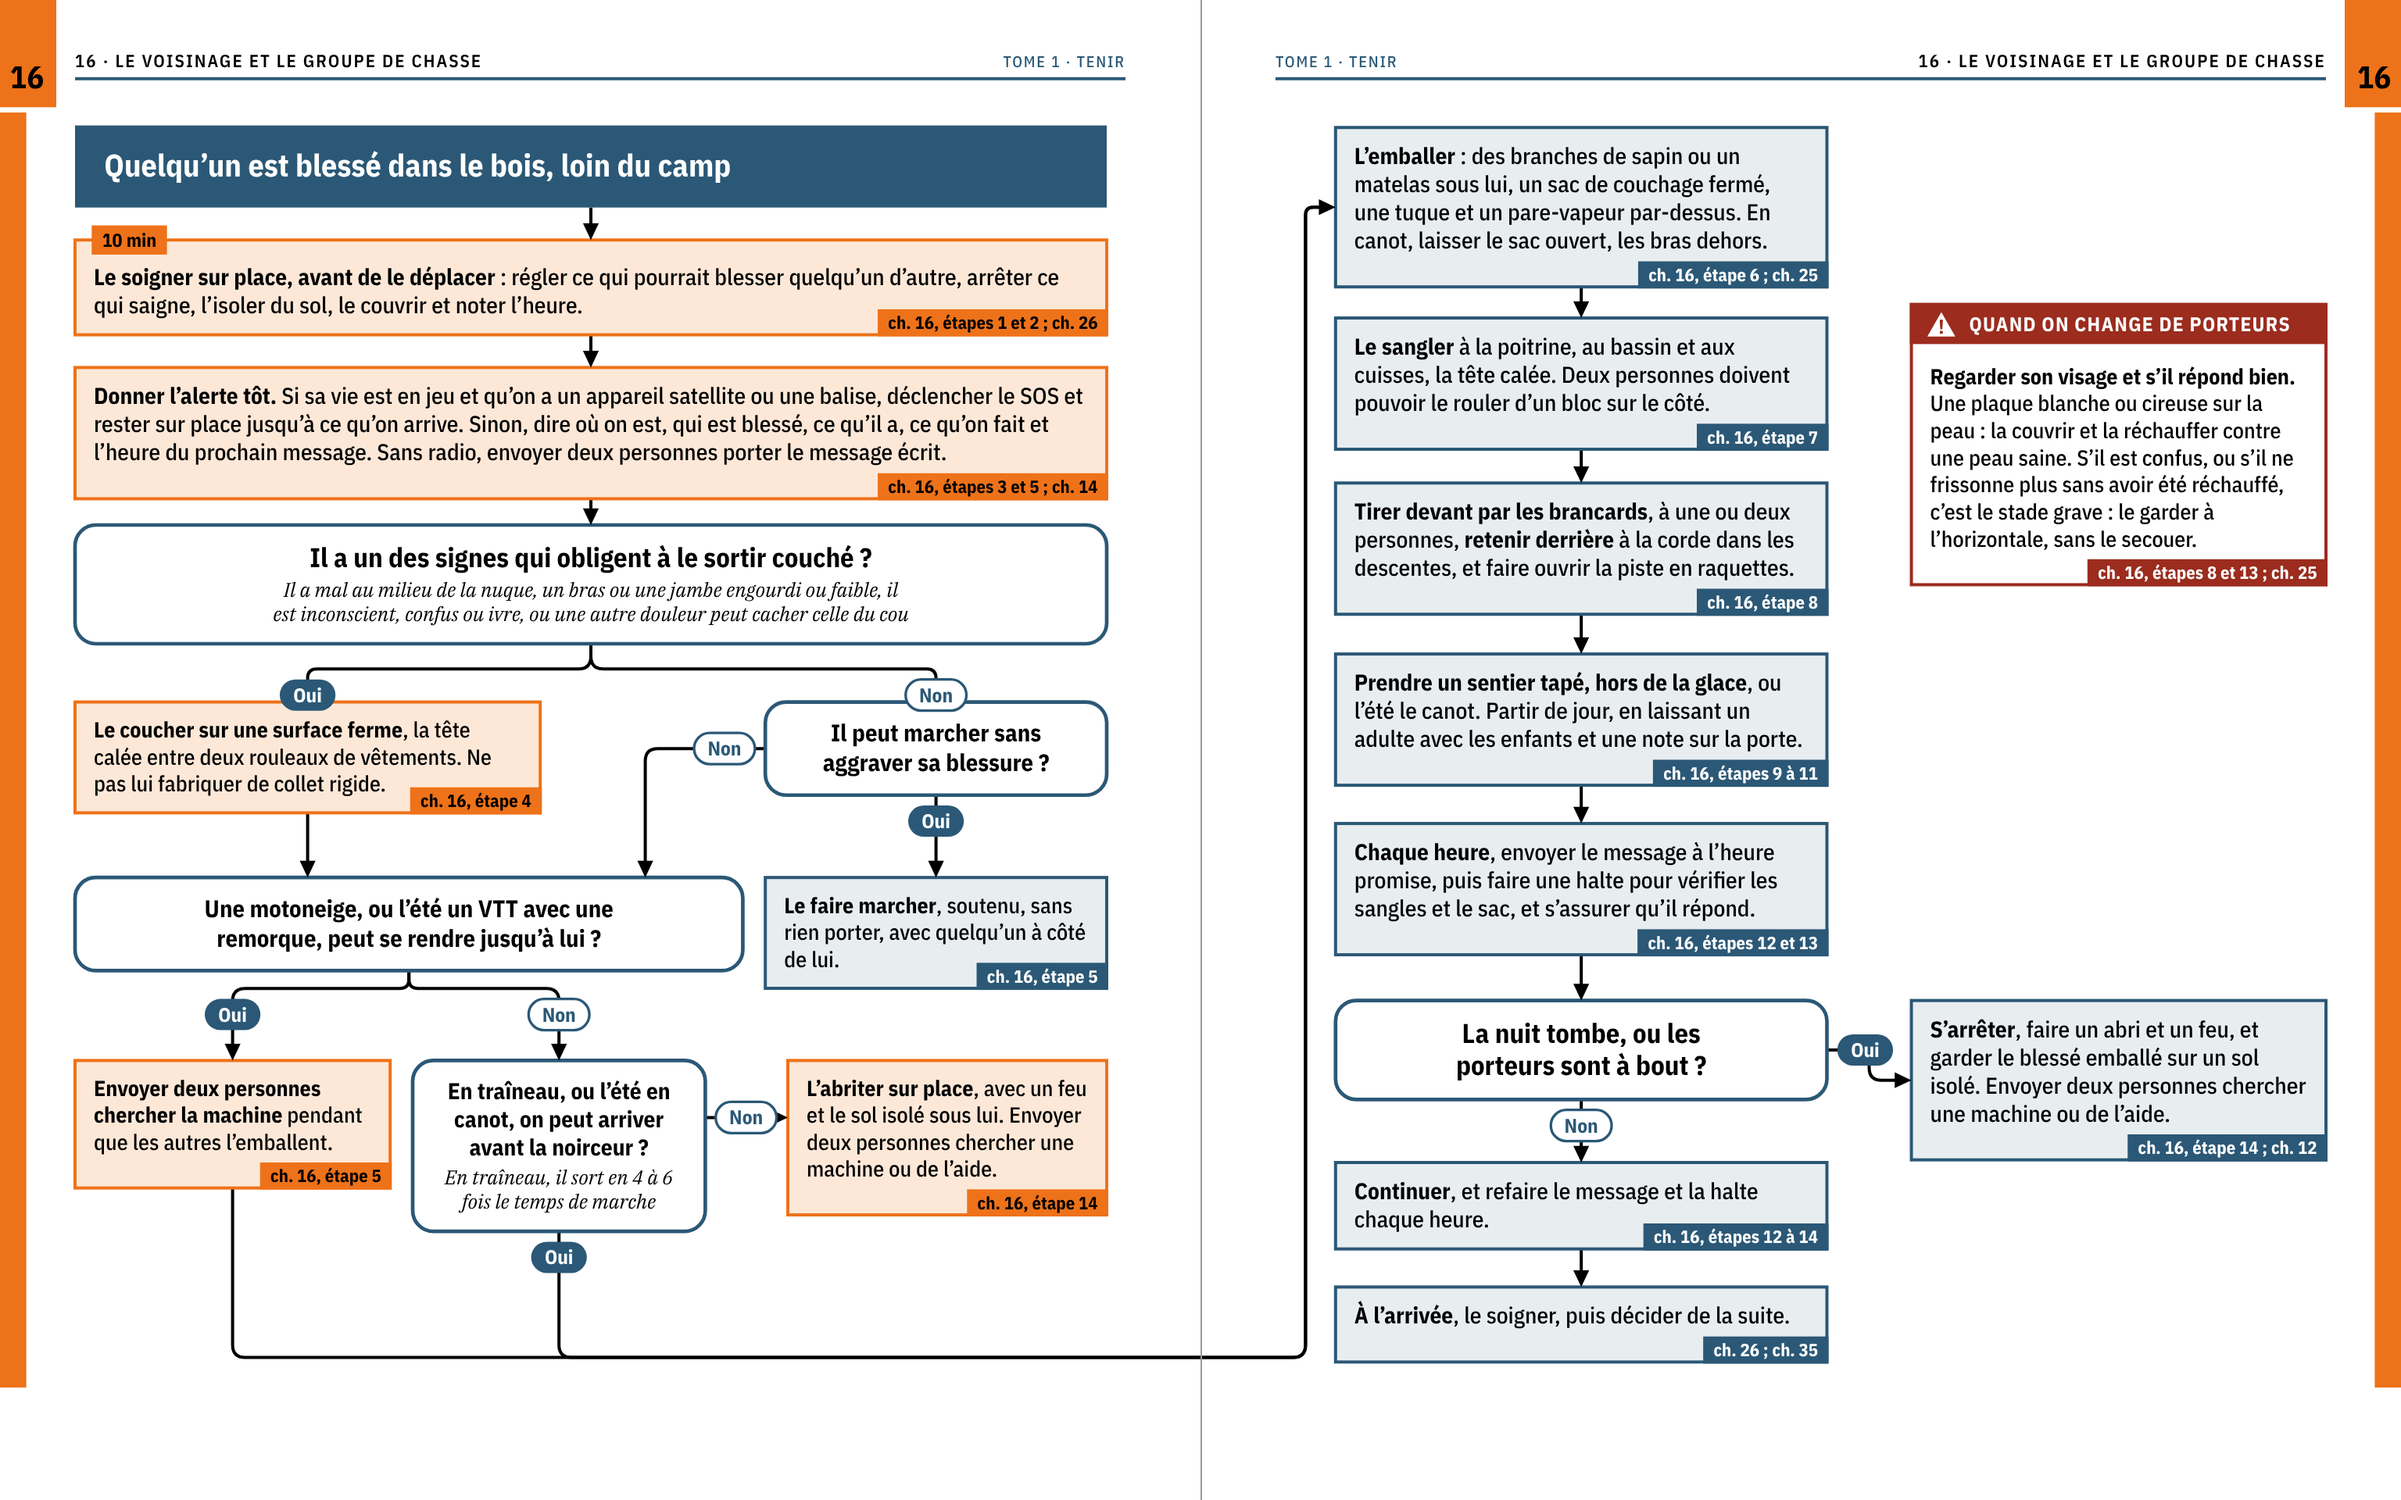
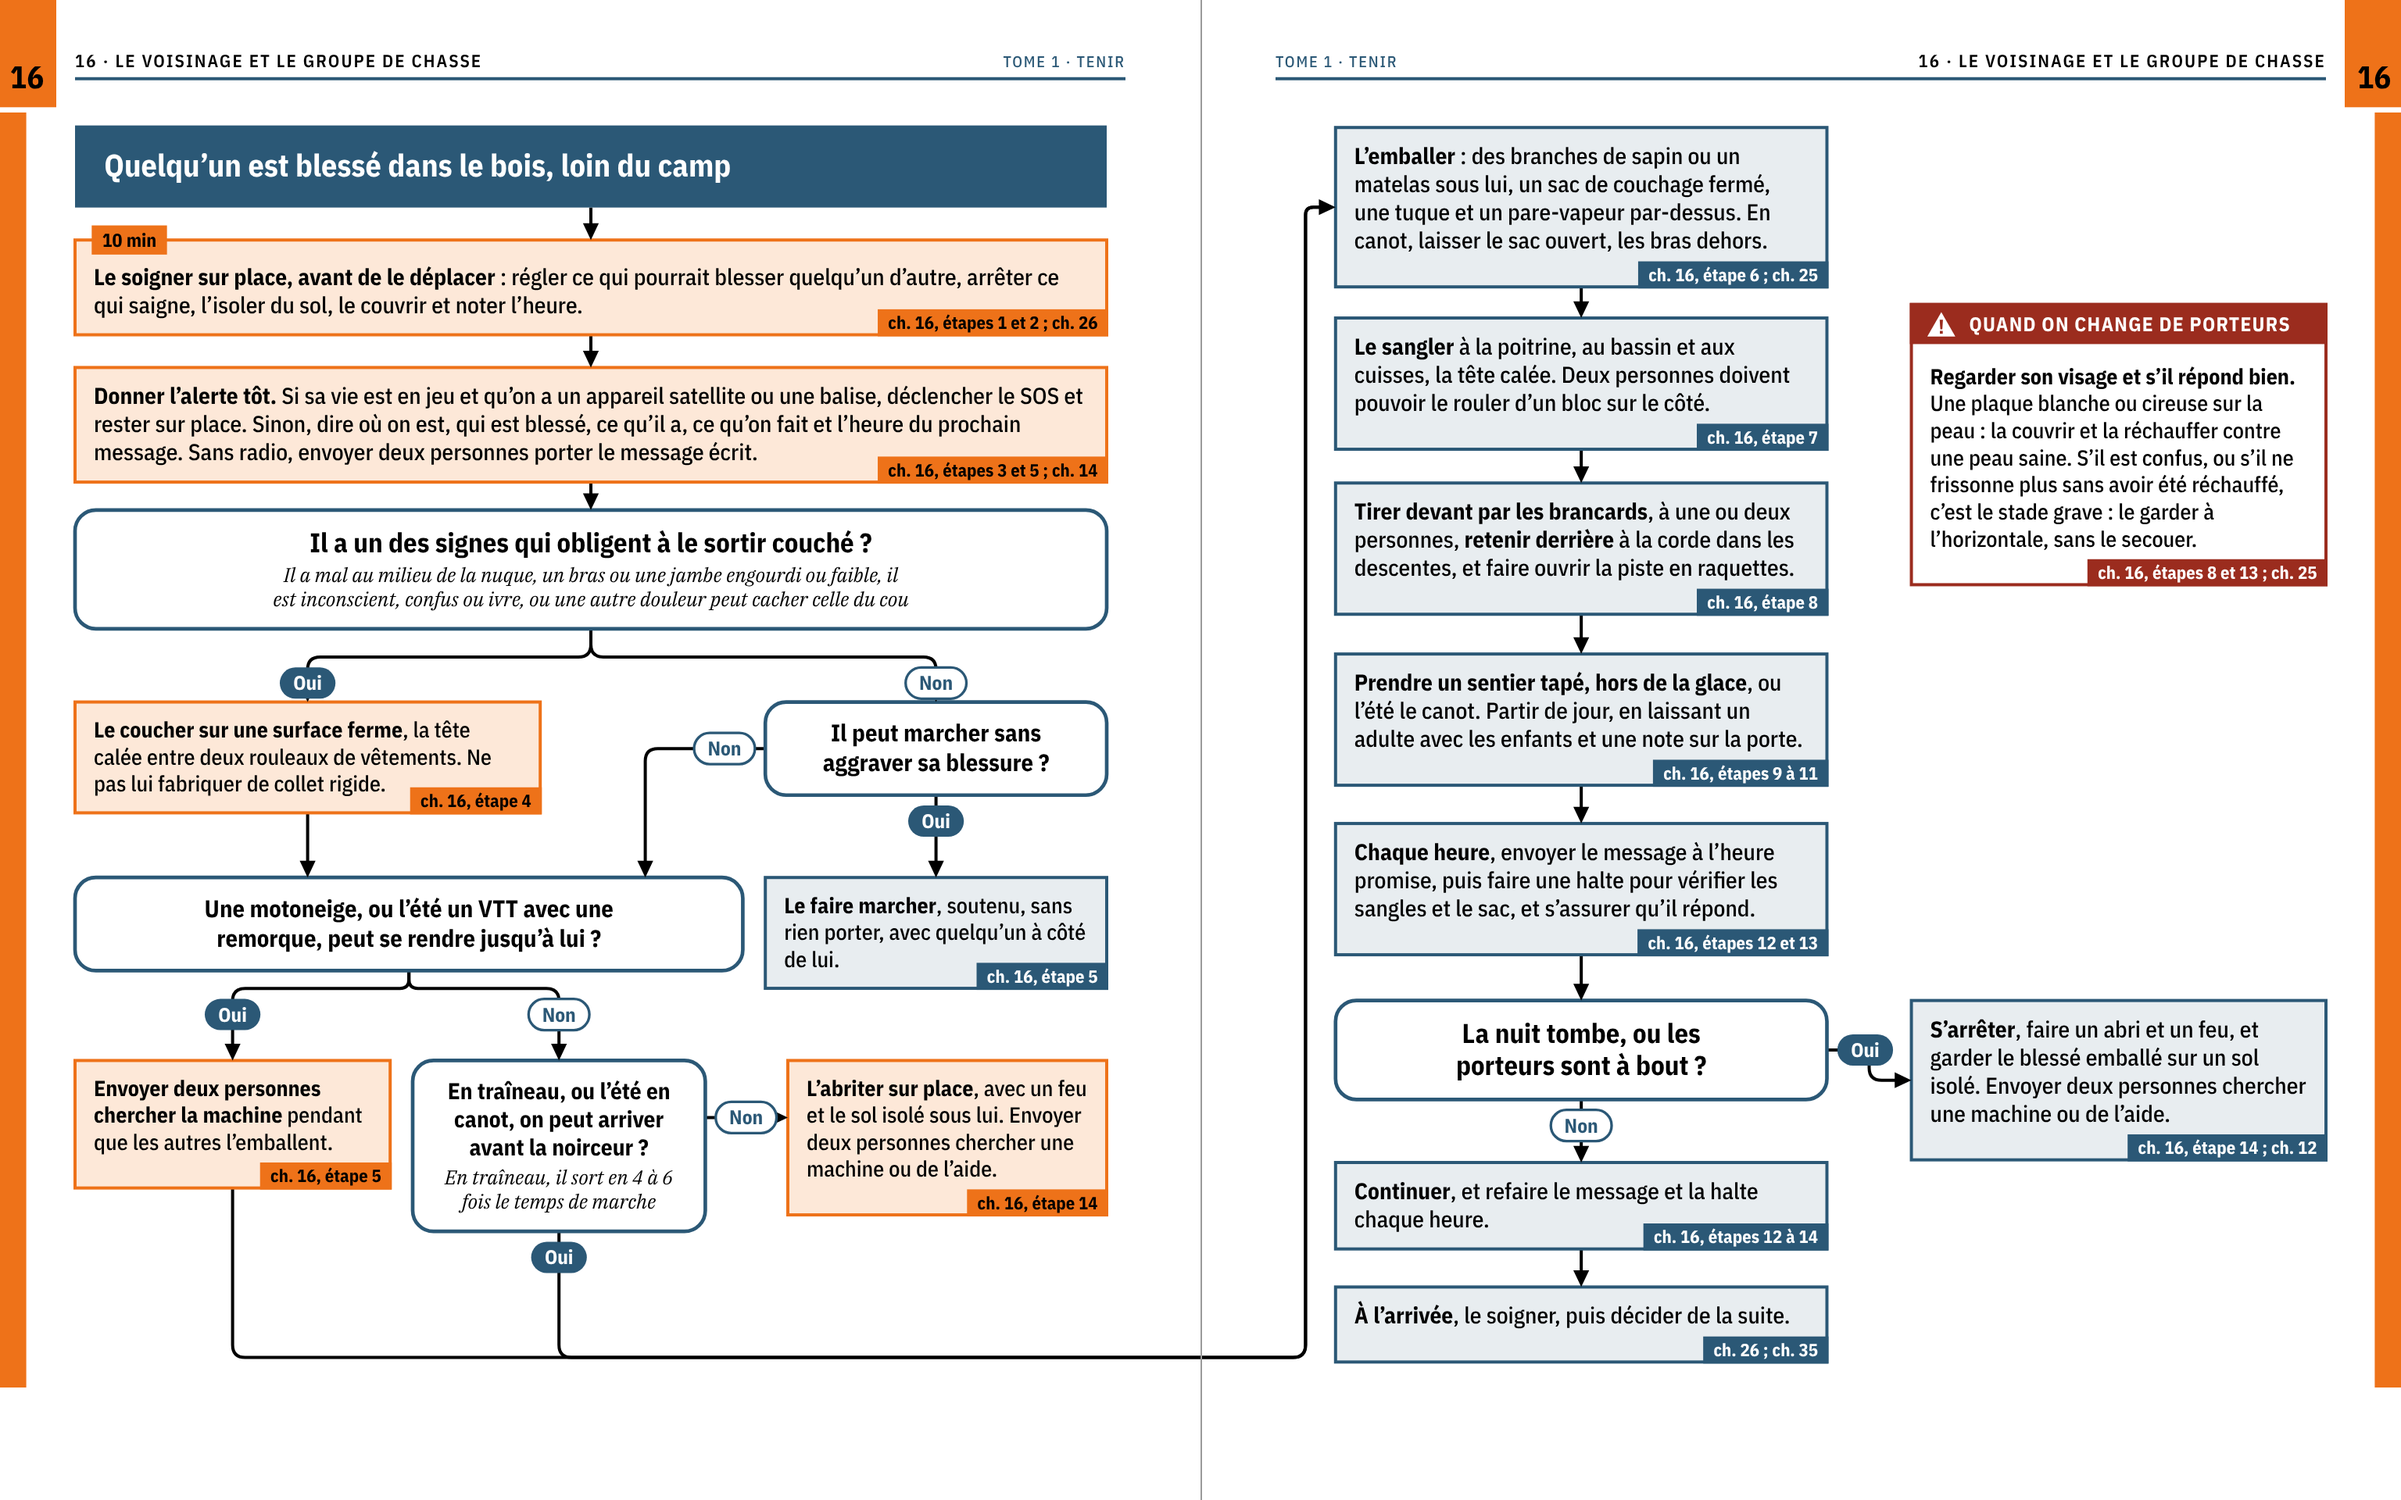
En cours : rendus du logigramme du ch. 16 (agent)
Claude-Session: https://claude.ai/code/session_014xDY5FLxFXDJt3nYAYznSZ

Changed region(s): [[0.0312, 0.2812, 0.4688, 0.4688]]

diff --git a/images/tomes/essais-ia/tome-5/dos.py b/images/tomes/essais-ia/tome-5/dos.py
@@ -268,7 +268,14 @@ def _proteger(fond, couche, info):
         ouvert = ndi.grey_opening(L, size=(t, t))
         cand = ((L - ouvert) > 12) & (ouvert < 80)
         lab, _ = ndi.label(cand)
-        miettes = np.isin(lab, np.unique(lab[pris & cand])) & (lab > 0)
+        # les miettes que le nettoyage prend : petites (ses critères), et sous ce qu'il a changé ; jamais un trait
+        # entier (un trait fin est tout entier « candidat », mais trop long pour être pris)
+        taille = np.bincount(lab.ravel())
+        objets = ndi.find_objects(lab)
+        ids = [i for i in np.unique(lab[pris & cand]) if i > 0 and taille[i] <= (0.12 * ppp) ** 2 and
+               objets[i - 1][0].stop - objets[i - 1][0].start <= 0.25 * ppp and
+               objets[i - 1][1].stop - objets[i - 1][1].start <= 0.25 * ppp]
+        miettes = np.isin(lab, ids)
         if not miettes.any():
             break
         couche = np.where(miettes, np.minimum(couche, ndi.grey_opening(couche, size=(t, t))), couche)

diff --git a/suivi/16-redaction.md b/suivi/16-redaction.md
@@ -668,7 +668,7 @@ touchée.
 | 4 | Section 7, le travois : NON RETROUVÉ | « *L'été, sans neige.* [À VÉRIFIER] Tirer le même cadre en travois… ». Gardé plutôt que coupé : le travois est dans la liste que JP a donnée pour l'été (plan de match, PAUSE du 15 octobre, point 2). Aucun fichier de `sources/` n'en parle (recherche dans `sources/`, et dans le texte du FM 21-76 déjà au dossier : rien). À lever ou couper avant l'impression : question à JP | Aucun |
 | 5 | Étape 3 et logigramme : « ch. 14, étapes 14 et 15 » | « (ch. 14, étapes 5 et 6) » ; source du nœud « Donner l'alerte » mise à jour | Ch. 14 refait : étape 5 (avertir le correspondant), étape 6 (l'ordre du message) |
 | 6 | Étape 12 et logigramme : « ch. 14, étape 15 » et « étape 13 » | « (ch. 14, étapes 6 et 8) » ; « (ch. 14, étape 26) » ; source du nœud « Chaque heure » : « étapes 12 et 13 ; ch. 14, étapes 8 et 26 » | Ch. 14 refait : étape 8 (le message suivant à l'heure annoncée), étape 26 (l'heure fixée d'avance) |
-| 7 | Étapes 3 et 5 : le SOS que le ch. 14 fait déclencher, puis rester sur place | Étape 3 : « Si la vie du blessé est en jeu (il respire mal, saigne sans qu'on arrive à l'arrêter, se réveille mal ou devient confus) et qu'on a un appareil satellite ou une balise, déclencher le SOS sans attendre (ch. 14, étapes 1 et 2). Sinon, … » (sans appareil, on passe au message par radio ou porté à deux) Étape 5, premier tiret : « Si le SOS ou la balise est parti, rester sur place avec le blessé, l'abriter (étape 14) et laisser l'appareil en marche jusqu'à ce que quelqu'un arrive (ch. 14, étape 3). » Logigramme, « Donner l'alerte » : « Si sa vie est en jeu et qu'on a un appareil satellite ou une balise, déclencher le SOS, et rester sur place avec lui jusqu'à ce qu'on arrive. Sinon, … ». Appliqué pour que les deux chapitres disent la même chose ; le choix lui-même reste à JP (voir « Pour JP ») | Ch. 14, étapes 1 à 3 ; CLAUDE.md (la balise et le SOS restent) |
+| 7 | Étapes 3 et 5 : le SOS que le ch. 14 fait déclencher, puis rester sur place | Étape 3 : « Si la vie du blessé est en jeu (il respire mal, saigne sans qu'on arrive à l'arrêter, se réveille mal ou devient confus) et qu'on a un appareil satellite ou une balise, déclencher le SOS sans attendre (ch. 14, étapes 1 et 2). Sinon, … » (sans appareil, on passe au message par radio ou porté à deux) Étape 5, premier tiret : « Si le SOS ou la balise est parti, rester sur place avec le blessé, l'abriter (étape 14) et laisser l'appareil en marche jusqu'à ce que quelqu'un arrive (ch. 14, étape 3). » Logigramme, « Donner l'alerte » : « Si sa vie est en jeu et qu'on a un appareil satellite ou une balise, déclencher le SOS et rester sur place. Sinon, … ». Appliqué pour que les deux chapitres disent la même chose ; le choix lui-même reste à JP (voir « Pour JP ») | Ch. 14, étapes 1 à 3 ; CLAUDE.md (la balise et le SOS restent) |
 | 8 | Section 7 : le travois tient le blessé incliné | « Quand il doit rester à l'horizontale (étape 13), arrêter le travois, qui le tient incliné, et l'abriter sur place (étape 14). » La condition n'est pas redite : renvoi à l'étape 13 (controle.py signalait la redite) | Ch. 25, étape 5 ; page `froid`, point 2 |
 | 9 | Étape 31 : « à 6 m de la maison » | « à au moins 6 m de toute maison » | `sources/10-sante-canada-generatrice-distance.md` ; page `generatrice` ; ch. 15, étapes 45 et 46 |
 | 10 | Étape 45 : l'orignal seul | « Refuser le foie et les reins d'orignal ou d'un autre cervidé (caribou, chevreuil), même offerts de bonne foi » | CLAUDE.md (cervidés) ; `sources/11-mapaq-gibier-cuisson-cadmium.md` (« cervids ») ; page `abats` |
@@ -687,7 +687,7 @@ Aucun.
 
 ### Logigramme
 
-Textes changés : « Donner l'alerte » (le SOS ou la balise, on reste sur place s'il est parti ; renvoi « ch. 16, étapes 3 et
+Textes changés : « Donner l'alerte » (le SOS, si on a un appareil satellite ou une balise, et on reste sur place ; renvoi « ch. 16, étapes 3 et
 5 ; ch. 14 »), « L'emballer » (le sac ouvert en canot), la précision du nœud du traîneau, la boîte rouge (« sans avoir été
 réchauffé »), les champs « source » des nœuds de l'alerte, de l'emballage et de « Chaque heure ». Les boîtes ayant grandi,
 trois rangs ont bougé pour que les flèches ne soient pas à l'étroit : `g4` 3,28 → 3,40 (la question des signes du cou), son
